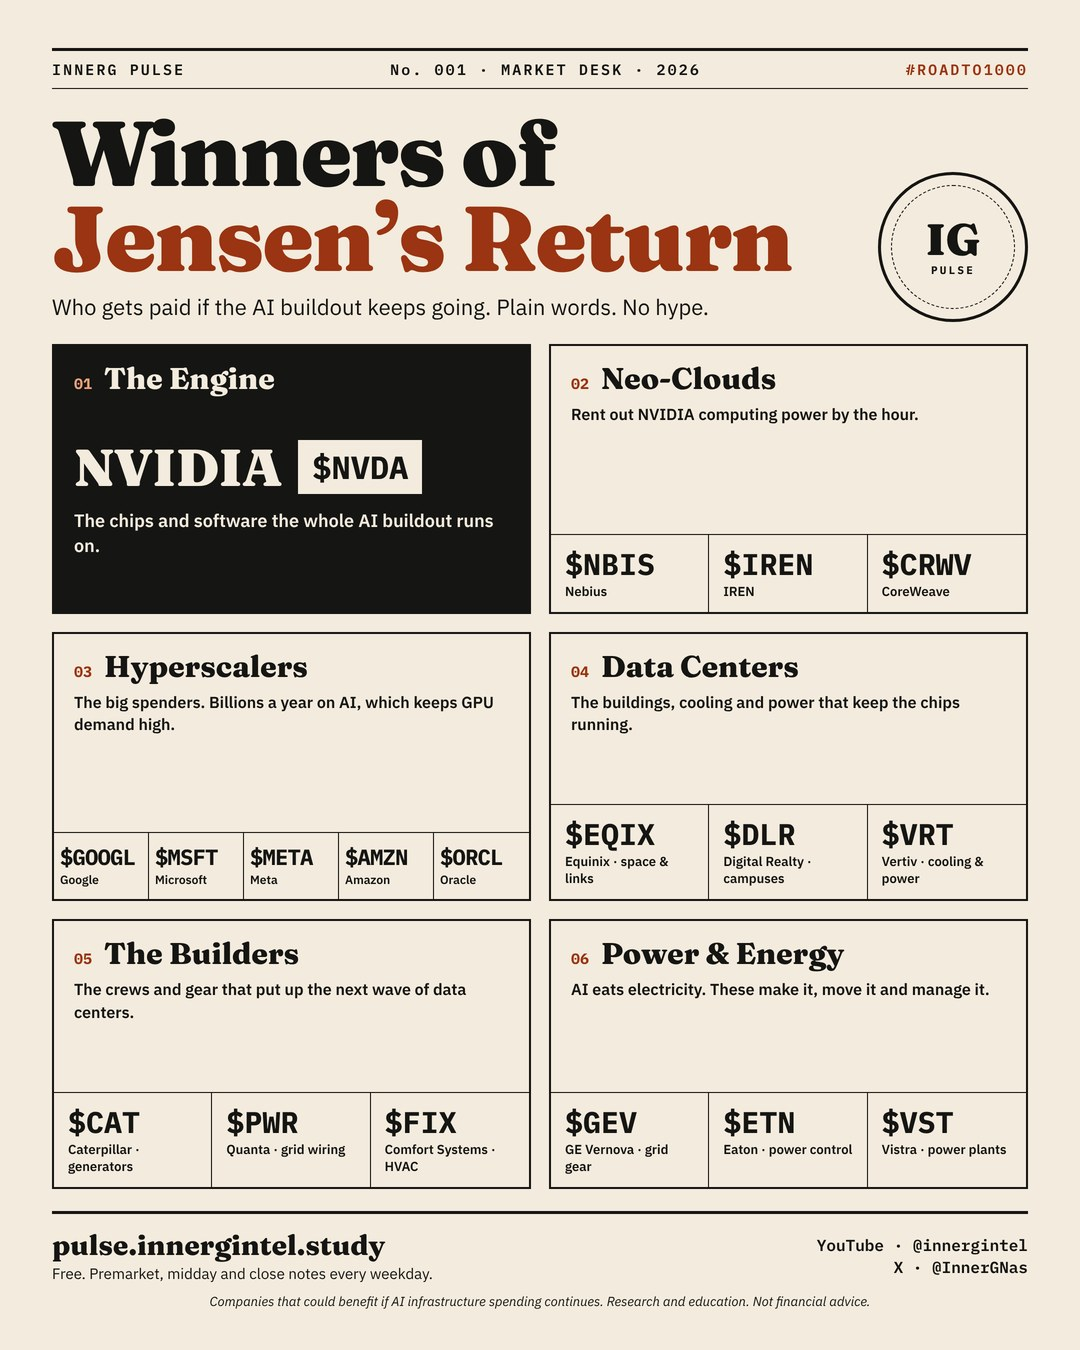
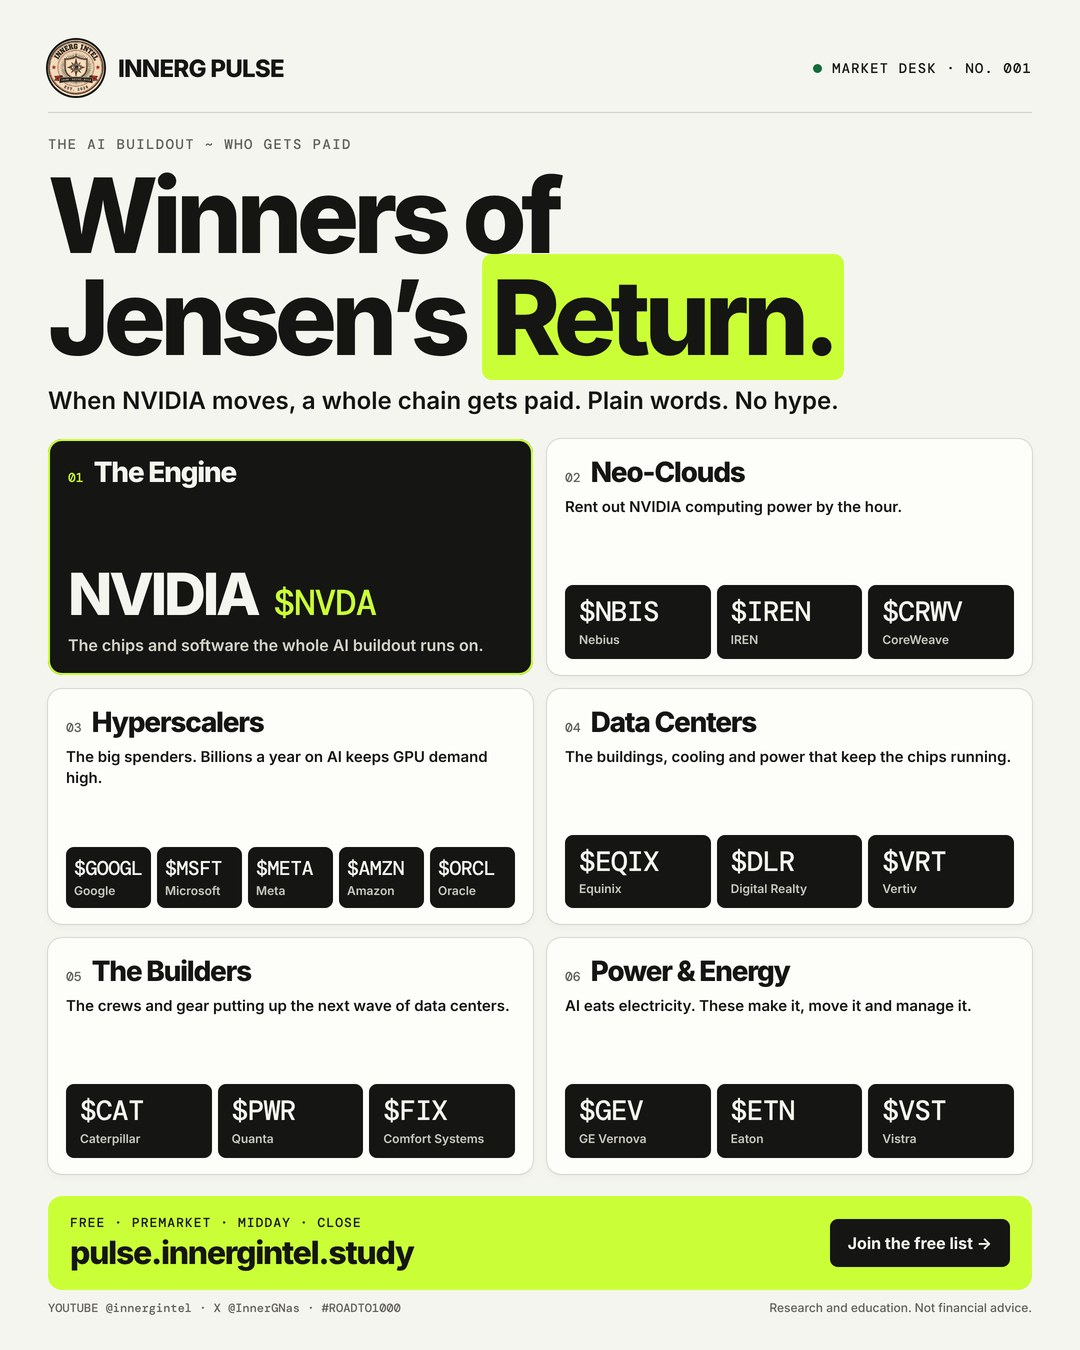
Restyle the Jensen's Return issue in the Market Desk theme
Graphic and issue page now match the watchlist page: paper ground,
Inter and DM Mono, ink ticker tiles and the lime signal color, with
the Pulse seal and signup kept.

Claude-Session: https://claude.ai/code/session_01AsVpR1RmzQsqb6GYzT7Yef

diff --git a/issues/2026-11-24-jensens-return/index.html b/issues/2026-11-24-jensens-return/index.html
@@ -3,7 +3,7 @@
 <head>
   <meta charset="utf-8" />
   <meta name="viewport" content="width=device-width, initial-scale=1" />
-  <meta name="theme-color" content="#F3EBDD" />
+  <meta name="theme-color" content="#f5f5ef" />
   <meta name="description" content="when nvidia moves, it isn't just one stock. a whole chain gets paid: chips, neo-clouds, hyperscalers, data centers, builders and power. the map, in plain words." />
   <title>winners of jensen's return ~ INNERG PULSE</title>
   <meta property="og:title" content="winners of jensen's return ~ INNERG PULSE" />
@@ -18,11 +18,12 @@
   <link rel="canonical" href="https://pulse.innergintel.study/issues/2026-11-24-jensens-return/" />
   <link rel="preconnect" href="https://fonts.googleapis.com" />
   <link rel="preconnect" href="https://fonts.gstatic.com" crossorigin />
-  <link href="https://fonts.googleapis.com/css2?family=Fraunces:opsz,wght@9..144,400;9..144,700;9..144,900&family=Courier+Prime:wght@400;700&display=swap" rel="stylesheet" />
+  <link href="https://fonts.googleapis.com/css2?family=DM+Mono:wght@400;500&family=Inter:wght@400;500;600;700;800&display=swap" rel="stylesheet" />
   <link rel="stylesheet" href="../../pulse-horizon.css" />
   <link rel="stylesheet" href="../issue.css" />
+  <link rel="stylesheet" href="desk-theme.css" />
 </head>
-<body class="issue-page">
+<body class="issue-page desk-theme">
   <div class="grain" aria-hidden="true"></div>
 
   <header class="hz-top">
@@ -35,7 +36,7 @@
     <figure class="issue-cover">
       <img src="jensens-return-cover.jpg" width="1200" height="1500" alt="Winners of Jensen's Return: a map of six groups of companies tied to the AI buildout. The engine: NVIDIA ($NVDA). Neo-clouds: $NBIS, $IREN, $CRWV. Hyperscalers: $GOOGL, $MSFT, $META, $AMZN, $ORCL. Data centers: $EQIX, $DLR, $VRT. Builders: $CAT, $PWR, $FIX. Power and energy: $GEV, $ETN, $VST." />
     </figure>
-    <h1>winners of jensen's return</h1>
+    <h1>winners of jensen's <mark>return.</mark></h1>
     <p class="lede">when nvidia moves, it isn't just one stock. a whole chain gets paid.</p>
     <p>here's the map, in plain words:</p>
     <ul>
@@ -47,10 +48,13 @@
       <li><b>06 power &amp; energy:</b> $gev $etn $vst make the electricity, move it and manage it. ai eats electricity.</li>
     </ul>
     <p>the chips get the headlines. the money flows through all six layers.</p>
-    <p>want the market made simple? get free notes at premarket, midday and close every weekday.</p>
-    <p><a class="cta" href="https://pulse.innergintel.study/#signup-panel">Join the free list</a></p>
+    <div class="desk-band">
+      <p>want the market made simple? free notes at premarket, midday and close every weekday.</p>
+      <a class="cta" href="https://pulse.innergintel.study/#signup-panel">Join the free list &rarr;</a>
+    </div>
+    <p><a href="https://nasirr.innergintel.study/watchlist/">open the full market desk &rarr;</a></p>
     <p><a href="jensens-return-1080x1350.jpg" download>download the graphic (1080×1350)</a></p>
-    <p><small>research and education. not financial advice.</small></p>
+    <p class="note">research and education. not financial advice.</p>
     <p class="signoff">Learn the system. Recode the mind. Build the future.<cite>~ G, InnerG Intel</cite></p>
     <p class="back"><a href="https://pulse.innergintel.study/">Back to INNERG PULSE</a></p>
   </main>

diff --git a/issues/2026-11-24-jensens-return/desk-theme.css b/issues/2026-11-24-jensens-return/desk-theme.css
@@ -1,0 +1,34 @@
+/* Market Desk theme for this issue ~ matches nasirr.innergintel.study/watchlist/ */
+body.issue-page.desk-theme{
+  --cream:#f5f5ef;--sheet:#fdfdf9;--ink:#151513;--red:#151513;--sky:#61615a;--muted:#61615a;
+  --signal:#caff37;--gain:#126b39;
+  --serif:Inter,system-ui,sans-serif;--mono:"DM Mono",ui-monospace,monospace;
+  background:var(--cream);color:var(--ink);font-family:var(--serif);-webkit-font-smoothing:antialiased
+}
+.desk-theme .grain{display:none}
+.desk-theme .hz-top{border-bottom:1px solid rgba(21,21,19,.16)}
+.desk-theme .brand{font-family:var(--serif);font-weight:800;letter-spacing:-.03em}
+.desk-theme .brand span{color:var(--ink)}
+.desk-theme .seal img{border-radius:50%}
+.desk-theme .issue-kicker{display:flex;align-items:center;gap:8px;flex-wrap:wrap;font-weight:500;letter-spacing:.1em;color:var(--ink)}
+.desk-theme .issue-kicker::before{content:"";width:8px;height:8px;border-radius:50%;background:var(--gain)}
+.desk-theme .issue-date{flex-basis:100%;letter-spacing:.06em}
+.desk-theme .issue-cover{border:0;border-radius:14px;overflow:hidden;box-shadow:0 0 0 1px rgba(21,21,19,.12),0 6px 20px rgba(0,0,0,.06);background:var(--cream)}
+.desk-theme .issue h1{font-weight:800;letter-spacing:-.055em;line-height:1.05}
+.desk-theme .issue h1 mark{background:var(--signal);color:var(--ink);padding:0 .15em;border-radius:8px}
+.desk-theme .issue p,.desk-theme .issue li{font-size:clamp(17px,1.9vw,19px);line-height:1.65}
+.desk-theme .issue .lede{font-weight:600}
+.desk-theme .issue li{padding-left:0;border-top:1px solid rgba(21,21,19,.12)}
+.desk-theme .issue li::before{content:none}
+.desk-theme .issue li b{font-family:var(--mono);font-weight:500}
+.desk-theme .issue .cta{font-family:var(--serif);font-weight:700;font-size:16px;letter-spacing:0;text-transform:none;background:var(--ink);color:var(--cream);border:0;border-radius:8px;min-height:48px;padding:14px 20px}
+.desk-theme .issue .cta:hover{background:var(--signal);color:var(--ink)}
+.desk-theme .desk-band{display:flex;justify-content:space-between;align-items:center;gap:16px;flex-wrap:wrap;margin:8px 0 28px;padding:20px 22px;border-radius:14px;background:var(--signal)}
+.desk-theme .desk-band p{margin:0;font-weight:700}
+.desk-theme .desk-band .cta{margin:0}
+.desk-theme .issue .note{font-size:13px;color:var(--muted)}
+.desk-theme .issue .back a{color:var(--ink);text-decoration:underline;text-underline-offset:4px}
+.desk-theme .hz-foot{background:var(--ink);font-family:var(--mono)}
+.desk-theme .foot-brand{font-family:var(--serif);font-weight:800;letter-spacing:-.03em}
+.desk-theme .foot-brand span,.desk-theme .hz-foot .tag{color:var(--signal)}
+.desk-theme .foot-seal{border-radius:50%}
